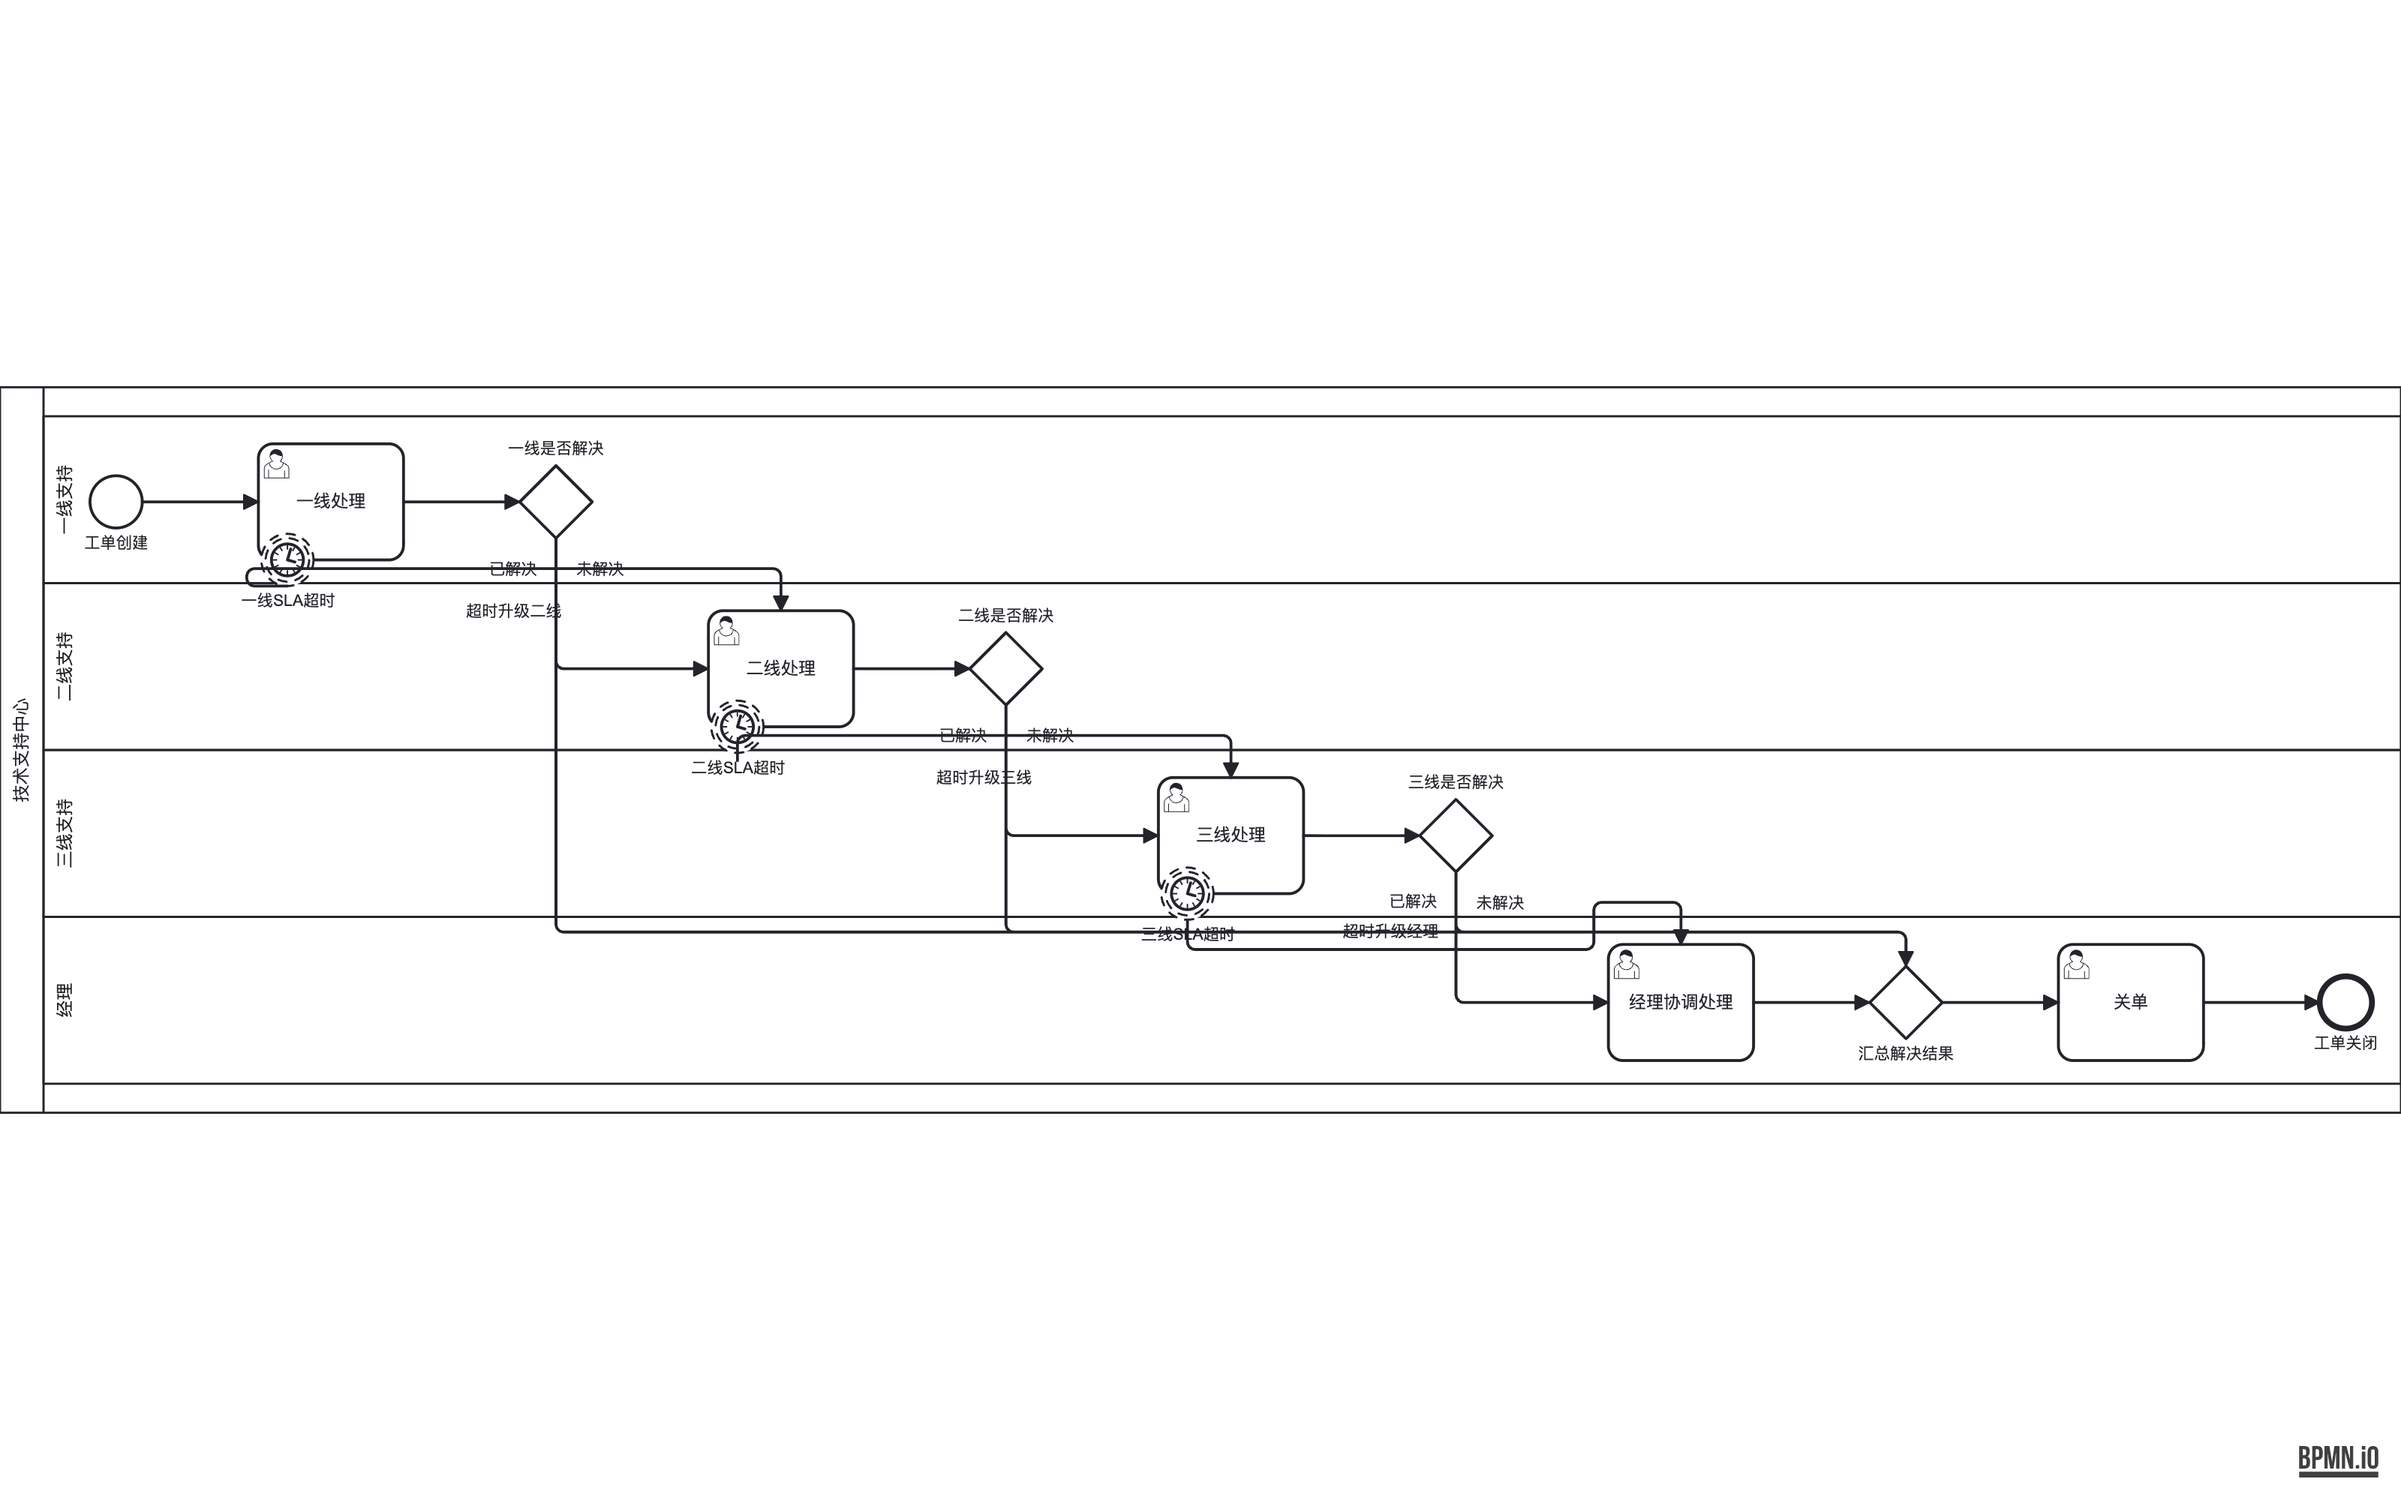
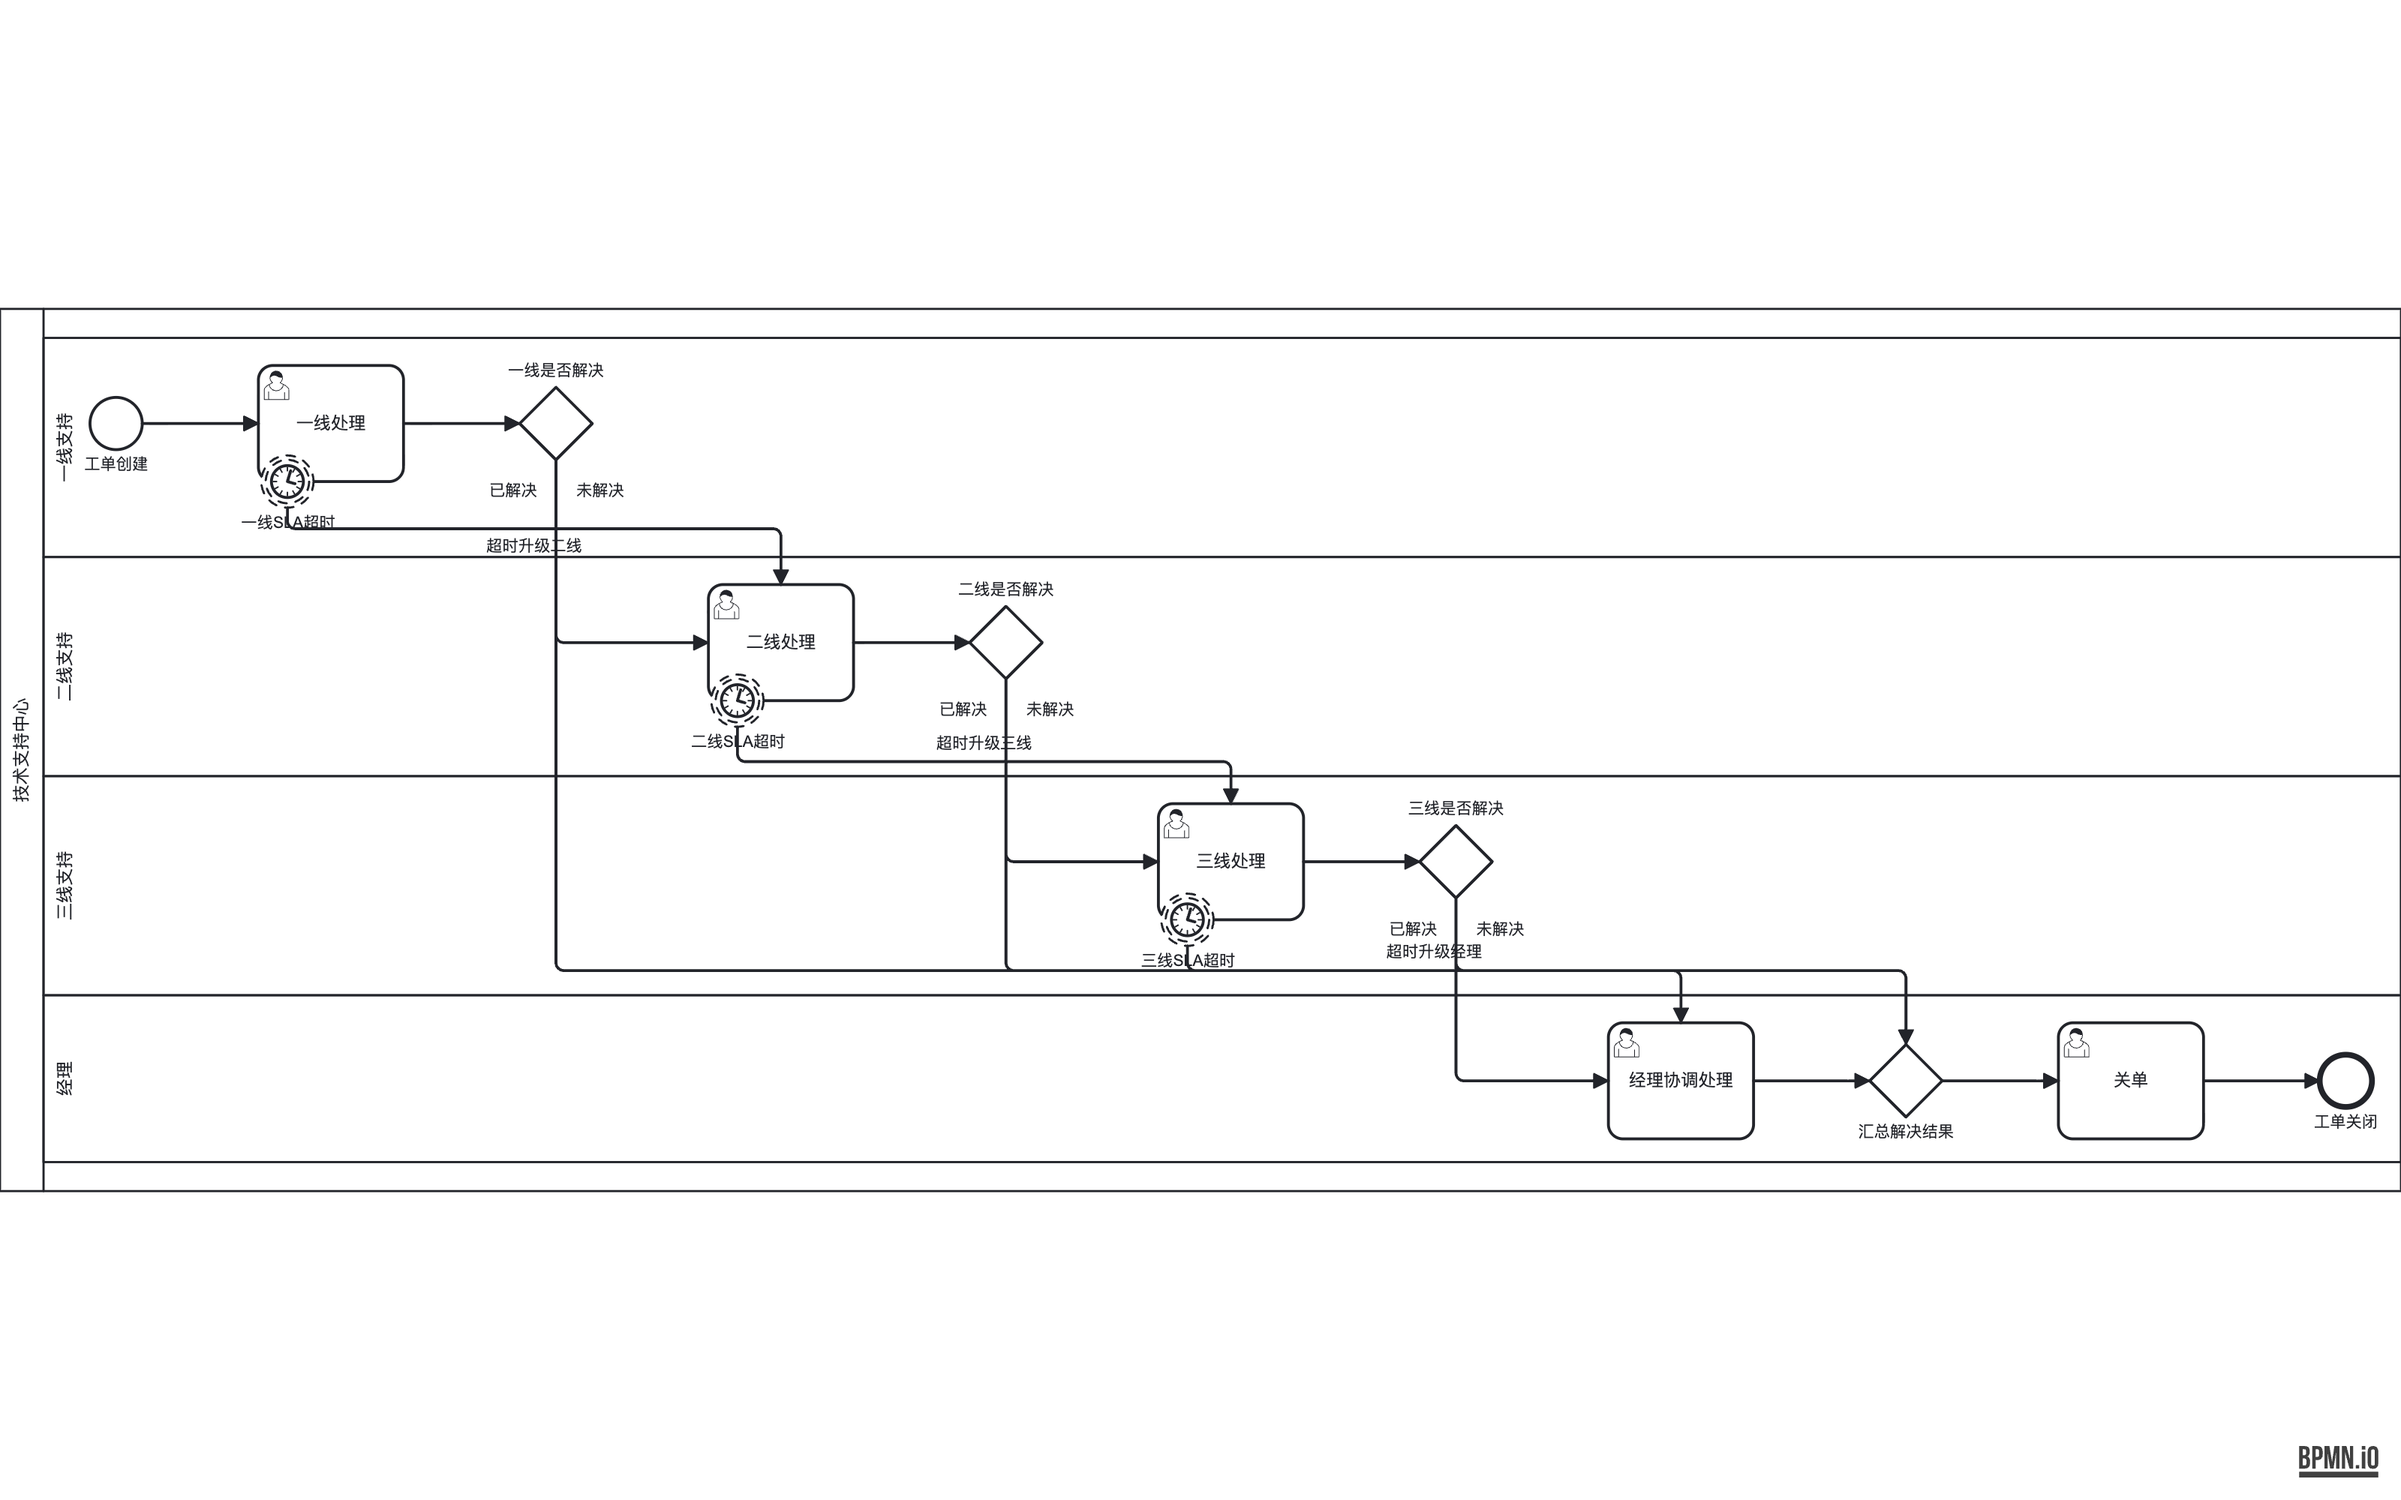
fix(lane): 卡1.1 lane 为底边 boundary 预留净空（82/96/99 N2/N3）
- lane-constrainer 新增 estimateBoundaryReserve：lane 成员含 boundary host 时，
  最下行 below 补 36px（BE 下半身 18 + label 4+14），经正常 sizing 流到 pool 高度。
  pipeline 传 boundaryHosts（flowNodes 里 boundaryEventIds 非空的节点）。
- 衍生修复（edge-router nudgeParallelSegmentsApart）：带挤满、tryShift 找不到
  ≥12px 落点时，可动段精确并到另一段 y 共享干线（dy=0 非 F8 叠线）。只能在
  本 pass 做——finalize tail-stub 会改写水平段 Y（99 的 timeout 边 pick 时在
  477.5、finalize 后落 463 才贴上 456 的走廊），更早 stage 看到的是旧坐标。

验收：82 N2/N3 1→0；99 N2/N3 3→0（F8 0→3→0、F10 15→7）；96 N2/N3 2→1
（剩 task_cs_escalate 属卡1.5/P3）；13/23/51 逐字节不变。
已知待人审：F2 99 0.013→0.109（仍远低于 30% 阈值；BE 净空把 lane 撑高、
内容相对中线上移，PNG 目视平衡）。

diff --git a/src/stages/lane-constrainer.ts b/src/stages/lane-constrainer.ts
@@ -37,6 +37,8 @@ export interface LaneConstrainInput {
   nodeMeta?: Map<string, LaneNodeMeta>;
   /** 同 pool 内的 sequenceFlows：用于预测 forward-skip arch 的上凸高度 */
   edges?: LaneEdgeInfo[];
+  /** 挂了 boundary event 的 host 节点 id：B1 要 BE 半内半外骑 host 底边，lane 底部要预留净空 */
+  boundaryHosts?: ReadonlySet<string>;
 }
 
 export interface LaneConstrainOutput {
@@ -150,7 +152,7 @@ export function laneConstrain(input: LaneConstrainInput): LaneConstrainOutput {
   const laneMetrics = new Map<string, LaneMetric>();
   for (const laneId of leafOrder) {
     const memberIds = laneMembers.get(laneId) ?? [];
-    laneMetrics.set(laneId, buildLaneMetric(memberIds, nodes, nodeMeta, edges, laneIndexOf));
+    laneMetrics.set(laneId, buildLaneMetric(memberIds, nodes, nodeMeta, edges, laneIndexOf, input.boundaryHosts));
   }
 
   // Lane Y band：从 y=0 顺序累加（仅叶子）
@@ -257,6 +259,7 @@ function buildLaneMetric(
   nodeMeta: Map<string, LaneNodeMeta> | undefined,
   edges: LaneEdgeInfo[] | undefined,
   laneIndexOf: Map<string, number>,
+  boundaryHosts: ReadonlySet<string> | undefined,
 ): LaneMetric {
   if (memberIds.length === 0) {
     return { height: LANE_MIN_H, centerOffset: LANE_MIN_H / 2, nodeCenterOffset: new Map() };
@@ -266,6 +269,11 @@ function buildLaneMetric(
   for (const id of memberIds) {
     extents.set(id, nodeVerticalExtent(nodes.get(id)!, nodeMeta?.get(id)));
   }
+
+  // BE 骑 host 底边的净空预留：BE 中心 = host.bottom，下半身 18 + label(4+14) 垂在 host 外。
+  // host 贴 lane 底时这些必出 lane（82/96/99 的 N2/N3）。只在「最下行里有 boundary host」时
+  // 补 below——host 在中间行时，BE+label(36) 落在 LANE_ROW_GAP(56) 里，无需预留。
+  const boundaryBelow = estimateBoundaryReserve(memberIds, boundaryHosts);
 
   // 驳回归一走廊预留：本 lane 若含 fan-in sink，edge-router 会在 sink 上/下边贴一根水平走廊
   // （busifyFanInToSink）。lane 默认只按节点尺寸算高、不给走廊留地，走廊+label 会被挤到泳道
@@ -294,6 +302,7 @@ function buildLaneMetric(
     }
     if (topAbove > 0) spineRows[0]!.above += topAbove;
     if (fanIn.below > 0) spineRows[spineRows.length - 1]!.below += fanIn.below;
+    applyBoundaryReserveToLastRow(spineRows, boundaryHosts, boundaryBelow);
     return buildMultiRowMetric(spineRows);
   }
 
@@ -311,11 +320,12 @@ function buildLaneMetric(
     // 走廊在最上行之上 / 最下行之下，按侧补到对应边缘行。
     if (topAbove > 0) rows[0]!.above += topAbove;
     if (fanIn.below > 0) rows[rows.length - 1]!.below += fanIn.below;
+    applyBoundaryReserveToLastRow(rows, boundaryHosts, boundaryBelow);
     return buildMultiRowMetric(rows);
   }
 
   const archReserve = estimateForwardArchReserve(memberIds, nodes, edges, nodeMeta);
-  return buildFlatMetric(memberIds, extents, archReserve, topAbove, fanIn.below);
+  return buildFlatMetric(memberIds, extents, archReserve, topAbove, fanIn.below + boundaryBelow);
 }
 
 function nodeVerticalExtent(box: NodeBox, meta: LaneNodeMeta | undefined): NodeVerticalExtent {
@@ -638,6 +648,30 @@ function estimateBackEdgeTransitReserve(
     if (blocked) return BACKEDGE_TRANSIT_RESERVE;
   }
   return 0;
+}
+
+// BE 底边净空 = BE 下半身(36/2) + label 距节点(4) + label 行高(14)。与 FANIN_CORRIDOR_RESERVE
+// 同量级纯属巧合：一个是"节点外垂下来的装饰"，一个是"贴边的水平走廊"。
+const BOUNDARY_BELOW_RESERVE = 36;
+
+function estimateBoundaryReserve(
+  memberIds: string[],
+  boundaryHosts: ReadonlySet<string> | undefined,
+): number {
+  if (!boundaryHosts || boundaryHosts.size === 0) return 0;
+  return memberIds.some(id => boundaryHosts.has(id)) ? BOUNDARY_BELOW_RESERVE : 0;
+}
+
+// 多行时 BE 净空只加在「含 boundary host 的最下行」——host 在中间行时 BE+label 落进行间距，
+// 不需要 lane 底部再扩。host 都在上方行时返回 0 的调用方自然不加。
+function applyBoundaryReserveToLastRow(
+  rows: LaneRow[],
+  boundaryHosts: ReadonlySet<string> | undefined,
+  reserve: number,
+): void {
+  if (reserve <= 0 || !boundaryHosts) return;
+  const last = rows[rows.length - 1]!;
+  if (last.ids.some(id => boundaryHosts.has(id))) last.below += reserve;
 }
 
 function resolveLaneOverlaps(outNodes: Map<string, NodeBox>, laneMembers: Map<string, string[]>): void {

diff --git a/src/stages/edge-router/index.ts b/src/stages/edge-router/index.ts
@@ -735,6 +735,28 @@ function nudgeParallelSegmentsApart(
     return false;
   };
 
+  // tryShift 推不开（带里挤满，找不到 ≥12px 落点）时的退路：把可动段精确并到另一段的 y 上
+  // 共享一根干线。归一的语义本来就把一束画成一根，两束共享一根远好于留 7px 糊线（F8）。
+  // 只能在**本 pass** 做：finalize 的 tail-stub 会再挪水平段（99 的 f_l3_timeout 在走廊 pick
+  // 时还在 477.5、dy=21.5 无需处理，finalize 后落 463 才和 456 的走廊贴上）——更早的
+  // corridor pick / lane reserve 看到的都是会被改写的旧坐标。覆盖 fixture：99（F8 门禁）。
+  const tryMergeOnto = (seg: HSeg, otherY: number): boolean => {
+    if (seg.fixed) return false;                 // 走廊干线不动，只能别人并它
+    if (nearDivider(otherY)) return false;
+    for (const other of segs) {
+      if (other === seg) continue;
+      if (xOverlap(seg, other) <= 20) continue;
+      const odY = Math.abs(otherY - other.wps[other.i]!.y);
+      if (odY > 0.5 && odY < PARALLEL_MIN_GAP) return false; // 并过去又和第三者挤成新叠线
+    }
+    const a = seg.wps[seg.i]!, b = seg.wps[seg.i + 1]!;
+    const origY2 = a.y;
+    a.y = otherY; b.y = otherY;
+    if (!routeCrossesObstacles(seg.wps, seg.obstacles)) return true;
+    a.y = origY2; b.y = origY2;
+    return false;
+  };
+
   for (let p = 0; p < segs.length; p++) {
     for (let q = p + 1; q < segs.length; q++) {
       const s = segs[p]!, t = segs[q]!;
@@ -743,9 +765,12 @@ function nudgeParallelSegmentsApart(
       if (dy <= 0.5 || dy >= PARALLEL_MIN_GAP) continue;
       if (xOverlap(s, t) <= 20) continue;
       // 优先推可动的一根;两根都可动则先试 t、再试 s。都不行就保留(F8 软指标,不制造硬违例/新叠线)。
-      if (t.fixed) { tryShift(s, t.wps[t.i]!.y); continue; }
-      if (s.fixed) { tryShift(t, s.wps[s.i]!.y); continue; }
-      if (!tryShift(t, s.wps[s.i]!.y)) tryShift(s, t.wps[t.i]!.y);
+      // 保留之前先试共享干线：精确重合（dy=0）不是 F8 的叠线，视觉是一根而不是两条。
+      if (t.fixed) { if (!tryShift(s, t.wps[t.i]!.y)) tryMergeOnto(s, t.wps[t.i]!.y); continue; }
+      if (s.fixed) { if (!tryShift(t, s.wps[s.i]!.y)) tryMergeOnto(t, s.wps[s.i]!.y); continue; }
+      if (!tryShift(t, s.wps[s.i]!.y) && !tryShift(s, t.wps[t.i]!.y)) {
+        if (!tryMergeOnto(t, s.wps[s.i]!.y)) tryMergeOnto(s, t.wps[t.i]!.y);
+      }
     }
   }
 }

diff --git a/src/pipeline.ts b/src/pipeline.ts
@@ -329,6 +329,7 @@ export async function runPipeline(
       nodes: placement.nodes, width: placement.bounds.width, height: placement.bounds.height, lanes: proc.lanes,
       nodeMeta: nodeMetaForLane,
       edges: edgesForLane,
+      boundaryHosts: new Set(proc.flowNodes.filter(fn => fn.boundaryEventIds.length > 0).map(fn => fn.id)),
     });
     msConstrain += performance.now() - tc;
 
